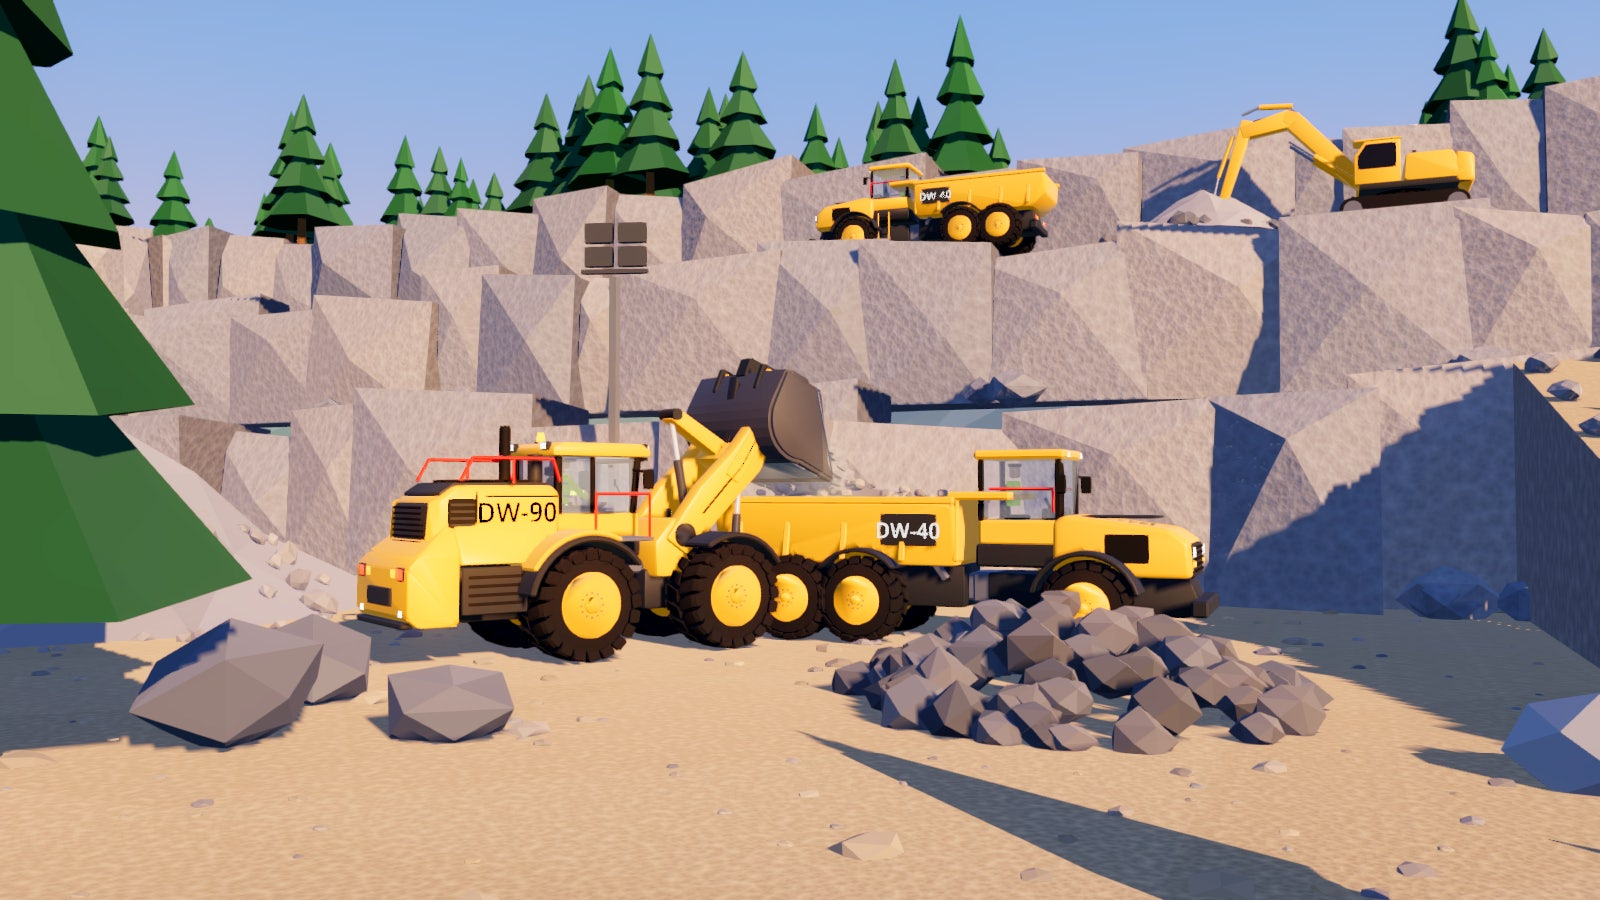
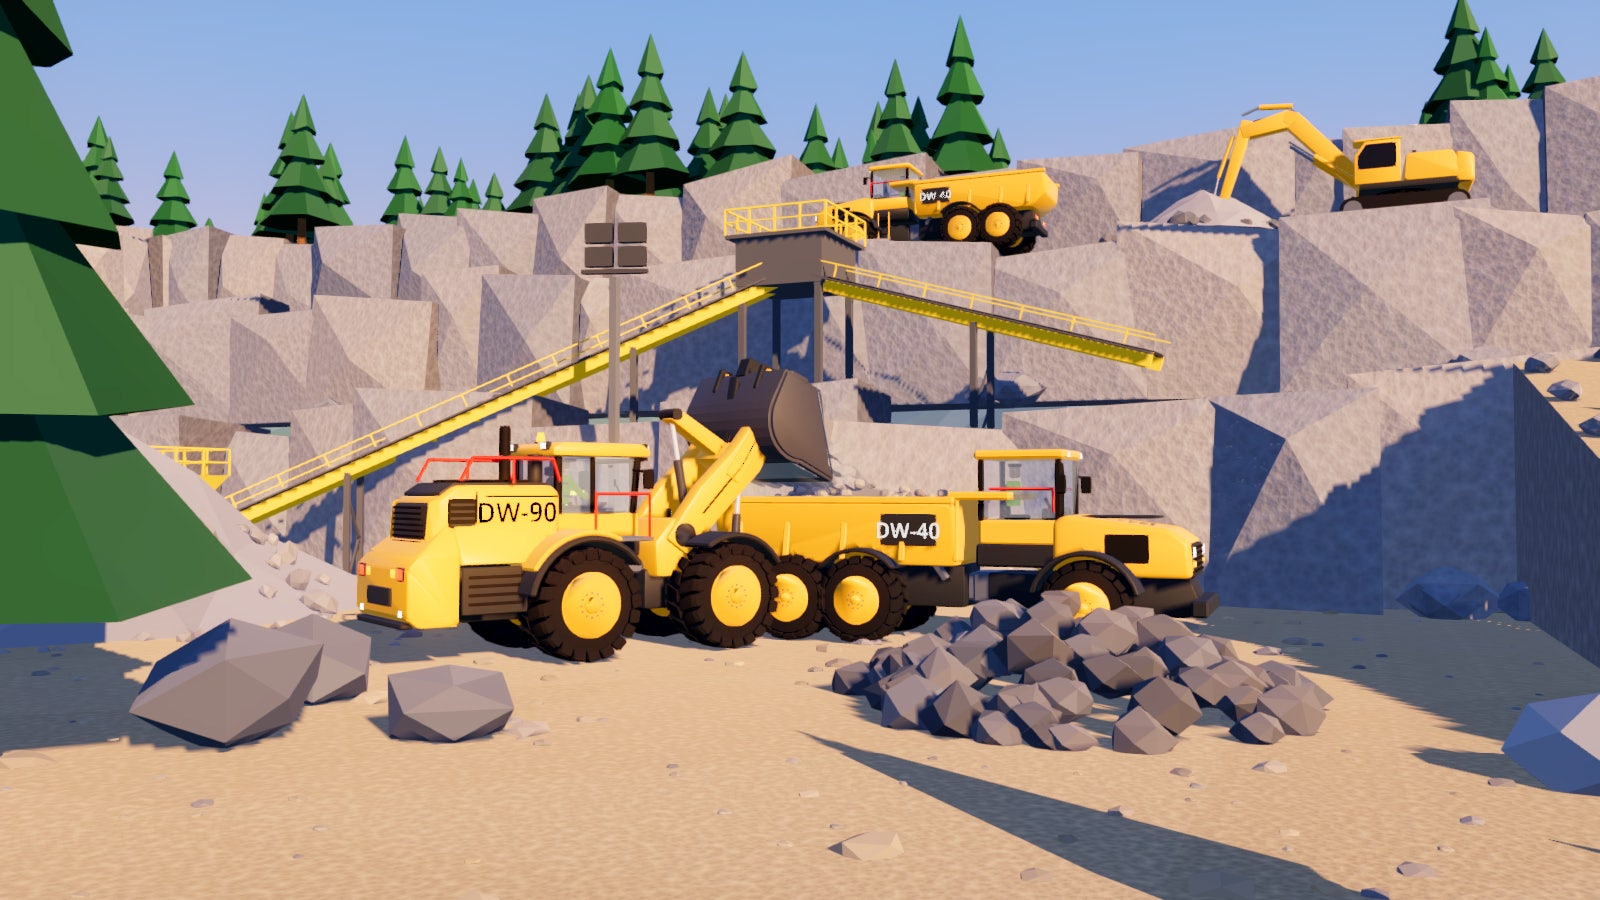
feat(world): in-pit feed line (feeder hopper, conveyors over the first bench, transfer tower), red site cabin + floodlight in the pit

Changed region(s): [[0.0938, 0.2178, 0.75, 0.6222], [0.4688, 0.4978, 0.5312, 0.56]]

diff --git a/docs/reviews/2026-11-12-pit-showcase/REVIEW.md b/docs/reviews/2026-11-12-pit-showcase/REVIEW.md
@@ -22,3 +22,7 @@ Reference: [`docs/image.png`](../../image.png).
 - The conveyors, crusher and red cabin (reference, back left) are now behind the camera, in the yard.
 - The machines fill about 55% of the frame width, against about 75% in the reference.
 - Dust and haze still can't be verified in the Mobile preview.
+
+## Follow-up: in-pit feed line
+- `SiteProps._pit_plant()` adds a feeder hopper by the west pile, a conveyor over the first bench to a railed transfer tower, and a second conveyor running out along the bench. A red site cabin and a floodlight stand in the pit's west side.
+- `hero.jpg`: the yellow conveyors now climb behind the loader at the back left, as in the reference. The cabin is hidden behind the pine in this frame but shows in play.
